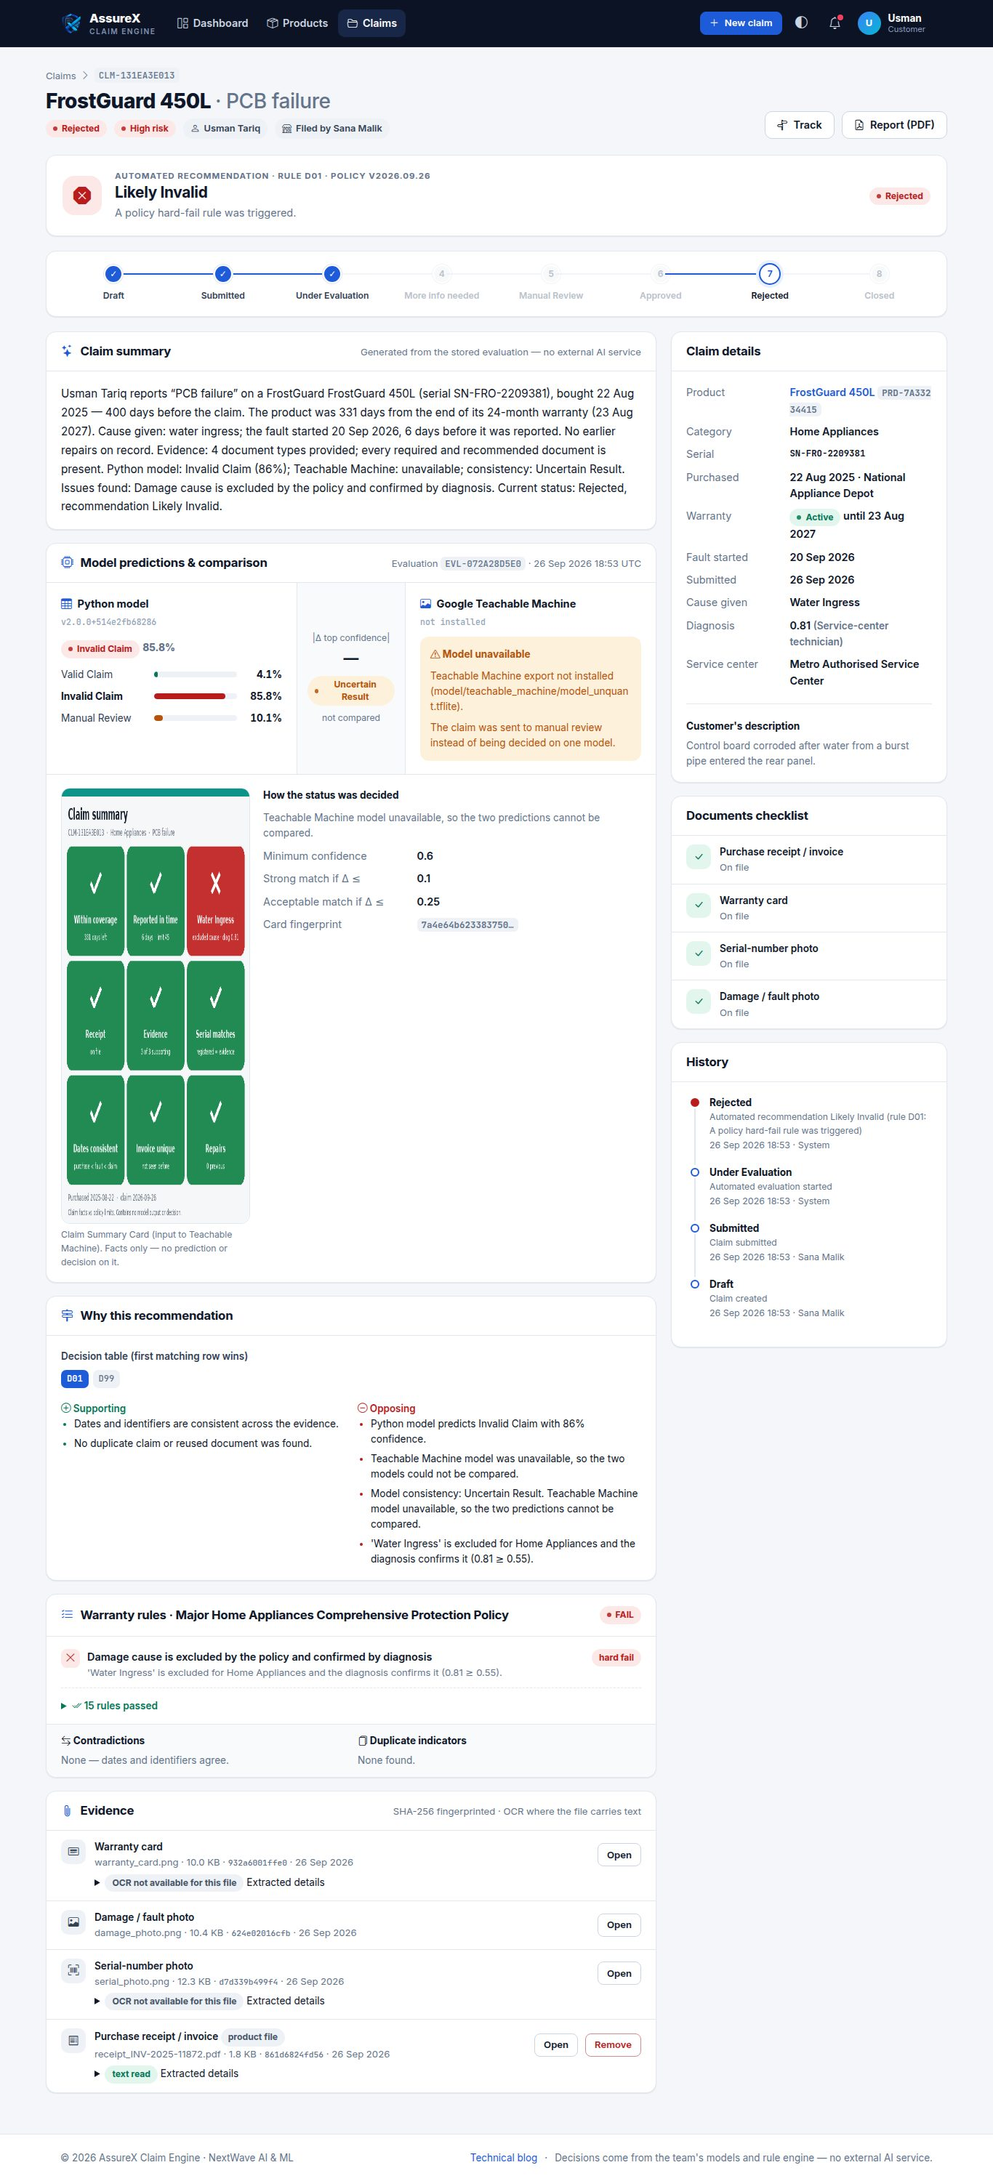
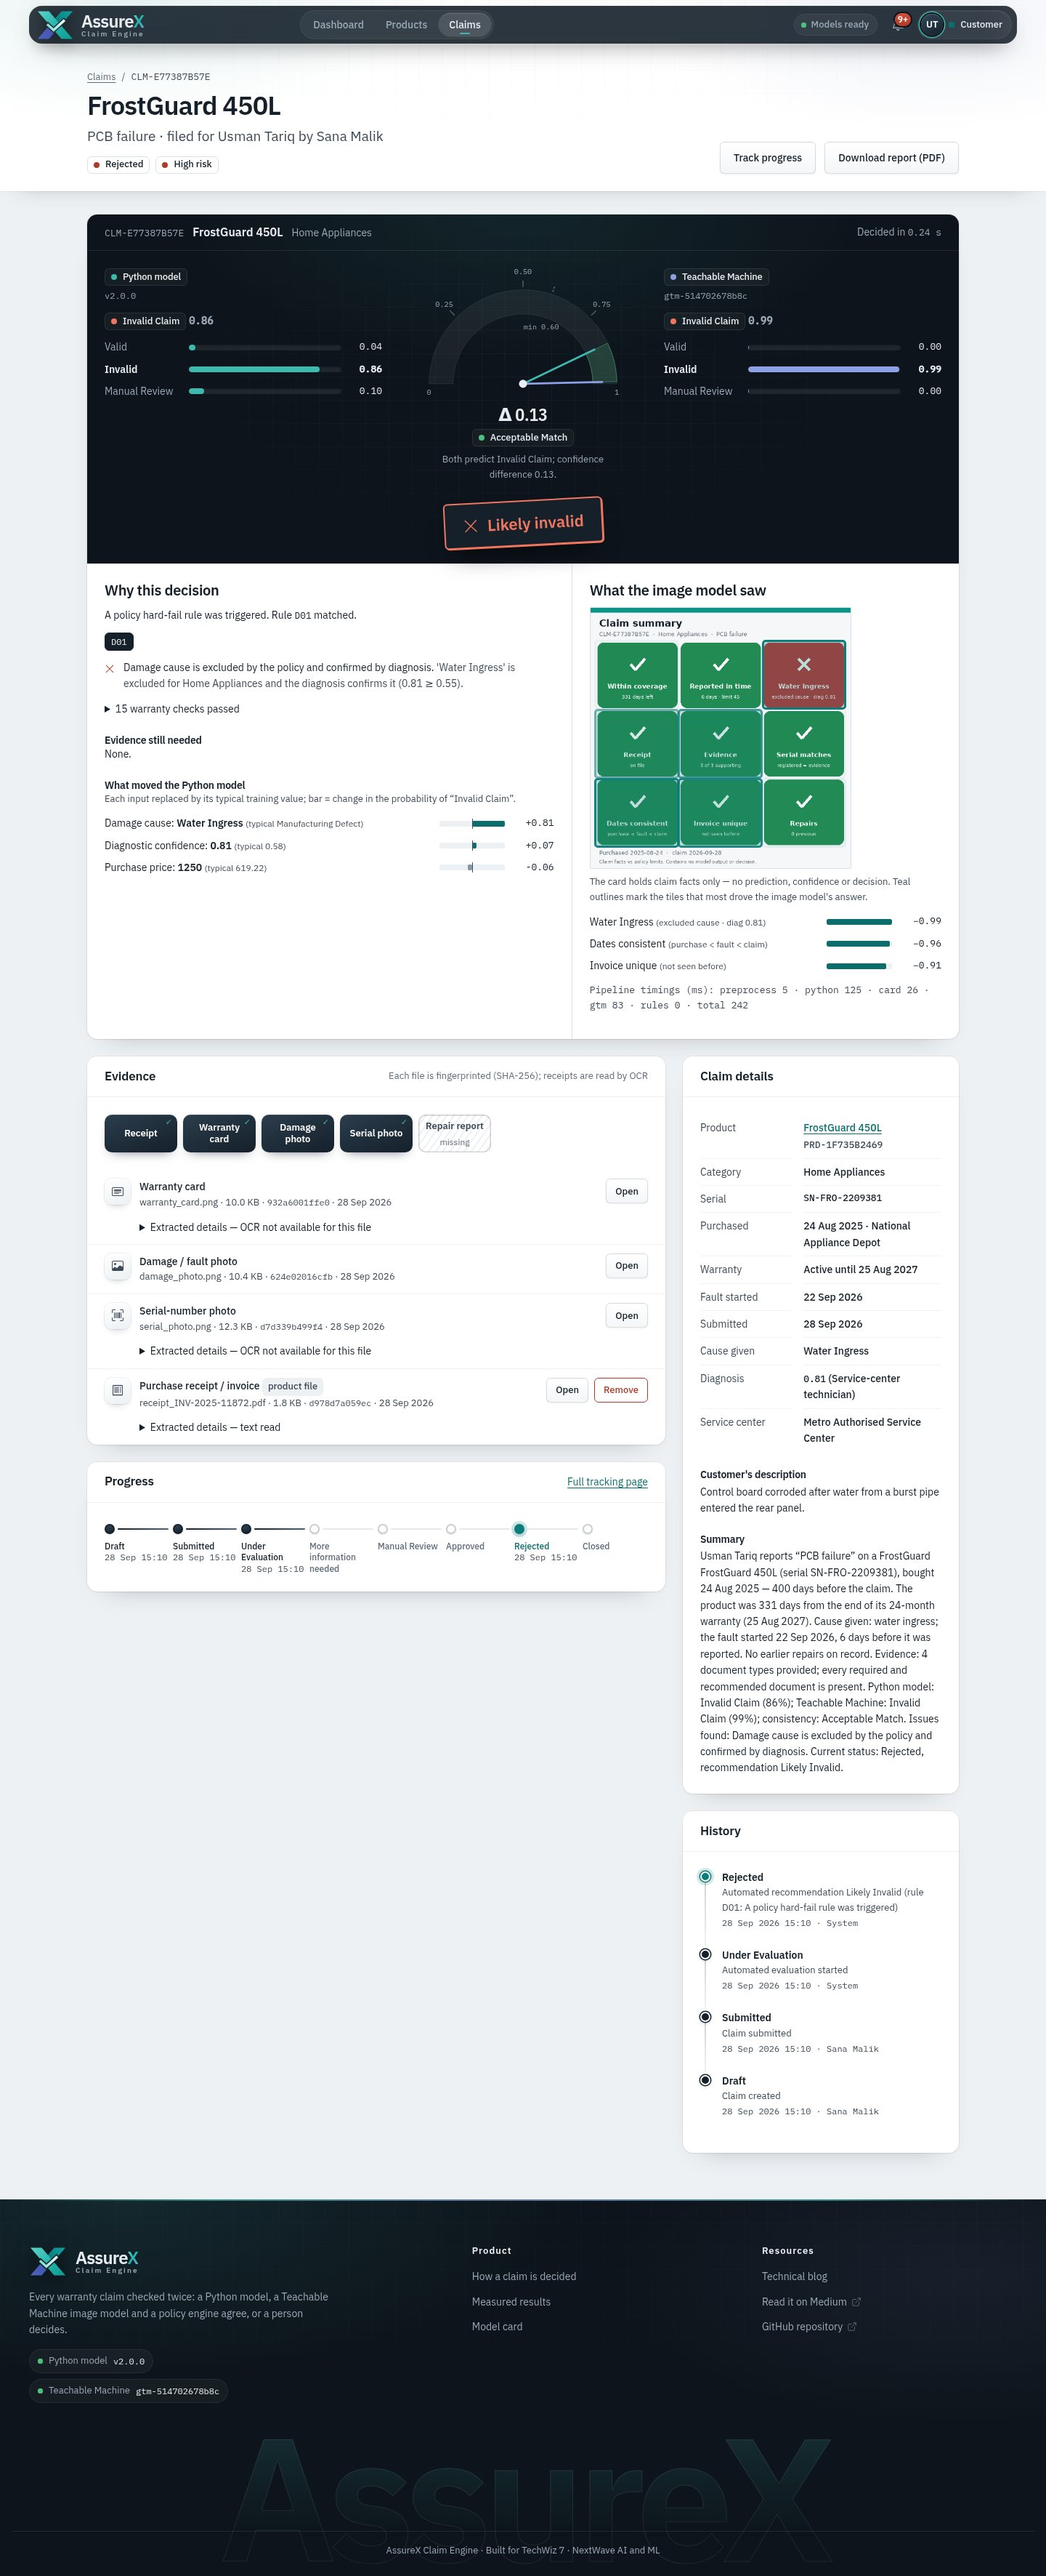
docs: fresh screenshots of the current application (desktop and phone) with both models loaded

diff --git a/screenshots/README.md b/screenshots/README.md
@@ -1,29 +1,68 @@
 # Screenshots
 
-Captured from the running application (`python database/seed.py && python src/app.py`) with Playwright/Chromium
-at 1366 px (desktop) and 390 px (phone). The Teachable Machine export was not installed when they were taken,
-so the image-model column shows "Model unavailable" and valid-looking claims wait in manual review (rule D04).
+Captured on 28 September 2026 from the running application with Playwright/Chromium, at 1440 px (desktop)
+and 390 px (phone). Data: a fresh database created with `python database/seed.py` (7 users, 12 products,
+12 claims). Both models were installed and loaded: the Python model `v2.0.0` and the Teachable Machine
+model `gtm-514702678b8c`. Pages taller than the window are captured in full.
+
+## Public pages
 
 | File | Screen |
 |---|---|
-| 01_landing.jpg | Public landing page with measured model results |
-| 02_login.jpg | Sign-in with evaluator accounts |
-| 03_customer_dashboard.jpg | Customer dashboard: products, warranties, pending actions, notifications, receipts |
-| 04_claim_wizard.jpg | Claim wizard step 1 with readiness checklist |
-| 05_claim_manual_review_d04.jpg | Claim page: summary, model comparison, card, decision trace, rules, evidence |
-| 06_claim_likely_invalid_d01.jpg | Claim rejected by a hard-fail rule (confirmed excluded damage) |
-| 07_claim_tracking.jpg | Eight-stage tracking |
-| 08_products.jpg / 09_product_warranty.jpg | Product list and product / warranty page |
-| 10_reviewer_queue.jpg / 11_reviewer_decision.jpg | Manual-review queue and decision panel |
-| 12_admin_overview.jpg | Administrator dashboard with filters, trend, monitoring |
-| 13_analytics_model_evidence.jpg | Analytics and Python model evidence |
-| 14_policy_editor.jpg | Warranty policy and rule-severity editor, decision settings |
-| 15_models_teachable_machine.jpg | Model status, Teachable Machine installer, sample cards |
-| 16_access_control.jpg | Access control: people, roles, permission matrix, blocked attempts |
-| 17_audit_trail.jpg | Audit trail |
-| 18_mobile_dashboard.jpg / 19_mobile_claim.jpg | Phone layout |
+| 01_landing.jpg | Landing page: headline, measured results, the live check deciding a real sample claim, and the dual-engine background (Python ML and vision model feeding the decision core, policy engine and outcomes) |
+| 02_login.jpg | Sign-in beside a scanned test-split Claim Summary Card, with one-click evaluator accounts |
+| 31_register.jpg | Customer self-registration with field rules, password strength and a live match check |
+| 27_model_card.jpg | Model card: both models' measured results as a technical report |
+
+## Customer
+
+| File | Screen |
+|---|---|
+| 03_customer_dashboard.jpg | Customer dashboard: at-a-glance KPIs, pending actions, products and claims |
+| 04_claim_wizard.jpg | Claim wizard, step 1, with the readiness checklist |
+| 26_claim_likely_valid.jpg | Claim page, *Likely Valid* (rule D07): both models agree, no blocking rule fired |
+| 06_claim_likely_invalid_d01.jpg | Claim page, *Likely Invalid* (rule D01): rejected by a hard-fail warranty rule |
+| 07_claim_tracking.jpg | Eight-stage claim tracking |
+| 08_products.jpg | Registered products with warranty status |
+| 09_product_warranty.jpg | Product and warranty page: coverage, documents and repair history |
+| 30_notifications.jpg | Notifications page with unread and all tabs |
+
+## Reviewer
+
+| File | Screen |
+|---|---|
+| 10_reviewer_queue.jpg | Manual-review queue with filters and tabs |
+| 11_reviewer_decision.jpg | Reviewer workbench: evidence, the verdict with both models' scores, warranty facts, and the decision bar with keyboard shortcuts |
+| 05_claim_manual_review_d04.jpg | Claim page, *Manual Review Required* (rule D04): Δ 0.39, *Uncertain Result* because the image model's top confidence is below 0.60; the decision trace, the Claim Summary Card the image model saw and what moved each model |
+
+## Administrator
+
+| File | Screen |
+|---|---|
+| 12_admin_overview.jpg | Operations overview: filters, KPI cards, claims per week, recommendations, model agreement and confidence charts |
+| 13_analytics_model_evidence.jpg | Analytics and model evidence |
+| 14_policy_editor.jpg | Warranty policy and rule-severity editor, decision settings, version history |
+| 15_models_teachable_machine.jpg | Model status, Teachable Machine installer and evaluation, sample cards |
+| 16_access_control.jpg | Access control: people, roles, invitations, service centers, blocked attempts |
+| 17_audit_trail.jpg | Audit trail with filters and export |
+| 28_what_if_simulator.jpg | What-if simulator: try consistency thresholds against the stored decisions before applying them |
+| 29_batch_evaluation.jpg | Batch evaluation of uploaded claim records through the real pipeline |
+
+## Phone
+
+| File | Screen |
+|---|---|
+| 18_mobile_dashboard.jpg | Customer dashboard at 390 px |
+| 19_mobile_claim.jpg | Claim page at 390 px |
+
+## Teachable Machine (training evidence)
+
+| File | Screen |
+|---|---|
 | 20_gtm_training.png | Teachable Machine run 1 (v2 cards): 700 images per class, epochs 50 / batch 16 / lr 0.001, model trained |
 | 22_gtm_evaluation.png | Run 1 evaluated in the app: 54.2% test accuracy (below target → card redesigned) |
-| 23_gtm_v3_training.png | Teachable Machine run 2 (v3 colour-tile cards), model trained |
+| 23_gtm_v3_training.png | Teachable Machine run 2 (v3 colour-tile cards): the three classes, 700 samples each, model trained |
 | 24_gtm_v3_preview_test.png | Run 2 preview on an unseen card: dates conflict + late reporting + excluded cause → Invalid Claim 99% |
 | 25_gtm_v3_evaluation.png | Run 2 evaluated in the app: 93.8% test accuracy, 97.3% validation, 92.9% agreement with Python |
+
+`00_system_architecture.jpg` is the system architecture diagram.

diff --git a/README.md b/README.md
@@ -126,9 +126,11 @@ threshold before changing it.
 
 | | |
 |---|---|
-| ![Landing page with the live bench](docs/screenshots/landing.png) | ![Verdict screen](docs/screenshots/verdict.png) |
-| ![Claim wizard reading a receipt](docs/screenshots/wizard-ocr.png) | ![Reviewer workbench](docs/screenshots/workbench.png) |
-| ![Customer dashboard](docs/screenshots/customer-dashboard.png) | ![What-if simulator](docs/screenshots/what-if.png) |
+| ![Landing page: live check and the dual-engine background](screenshots/01_landing.jpg) | ![Reviewer workbench](screenshots/11_reviewer_decision.jpg) |
+| ![Sign-in with evaluator accounts](screenshots/02_login.jpg) | ![Model card](screenshots/27_model_card.jpg) |
+
+More screens (claim verdicts, dashboards, admin tools, phone layout) are listed in
+[`screenshots/README.md`](screenshots/README.md).
 
 Quality, measured: axe-core finds no serious or critical WCAG 2 A/AA issue on 21 pages; Lighthouse gives
 99 performance and 100 accessibility, best practices and SEO on the landing, sign-in, model card and blog
